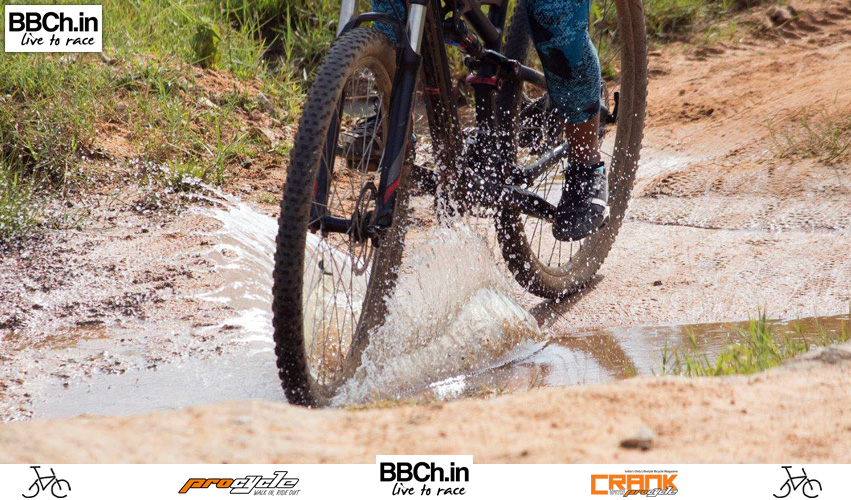
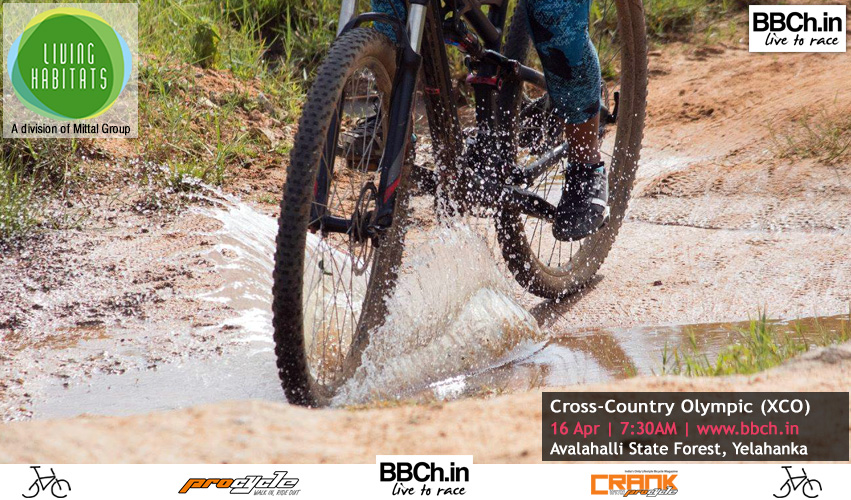
new sponsors added
new sponsors added  and page updated

Changed region(s): [[0.611, 0.78, 1.0, 0.93], [0.0, 0.0, 0.1833, 0.3], [0.8555, 0.0, 1.0, 0.12]]

diff --git a/Sponsors.htm b/Sponsors.htm
@@ -163,20 +163,34 @@
                 <div align="center" style="width: 900px">
                     <div style="background-color: #ffffff">                        
                         <br /><br />
+                        
+                        <a href="#" target="_blank">
+                            <div>
+                            <h1>Powered By</h1>
+                            <img alt="A division of Mittal Group" src="Images/SponsorLivingHabitats.jpg" style="border: 0; height: 400px" />
+                            </div>
+                        </a>
+                        
+                        <br /><br /><hr /><br /><br />
+                        
                         <a href="http://crankwithprocycle.in/" target="_blank">
                             <div>
                             <h1>MAGAZINE PARTNER</h1>
                             <img alt="Crank" src="Images/SponsorCrank.jpg" style="border: 0" />
                             </div>
                         </a>
-                        <br /><br />
+                        
+                        <br /><br /><hr /><br /><br />
+                        
                         <a href="http://www.procycle.in/" target="_blank">
                             <div>
                             <h1>BICYCLE STORE PARTNER</h1>
                             <img alt="ProCycle" src="Images/SponsorProCycle.jpg" style="border: 0" />
                             </div>
                         </a>
-                        <br /><br />
+                        
+                        <br /><br /><hr /><br /><br />
+                        
                         <!--<br />
                         <a href="http://www.thesufferfest.com/" target="_blank">
                             <div id="sf"></div>
@@ -192,6 +206,8 @@
                             <img alt="Adidas" src="Images/SponsorAdidas.jpg" style="border: 0" />
                             </div>
                         </a>
+                        
+                        
                         <a href="http://iwearlumos.com/India/" target="_blank">
                             <div>
                             <h1>ACCESSORIES PARTNER</h1>
@@ -258,38 +274,58 @@
                     <div align="center" style="width: 900px">
                         <div style="background-color: #ffffff">
                             <br />
+                            
                             <h1>MEDICAL PARTNER</h1>
                             <a href="http://sbshospital.com/who-we-are/our-story/" target="_blank">
                                 <div id="sb"></div>
                             </a>
                             <br /><hr /><br />
+                            
+                            
                             <h1>PHYSIO PARTNER</h1>
                             <a href="http://www.spectrumphysio.info/" target="_blank">
                             <div id="SP"></div>
                             <br /><hr /><br />
+
+
                             <a href="http://www.yogabars.in/" target="_blank">
                             <div>
                             <h1>NUTRITION PARTNER</h1>
                             <img alt="Yoga Bar" src="Images/SponsorYogaBar.jpg" style="border: 0; height: 150px" />
                             </div>
                             <br /><hr /><br />
+
+                            
                             <a href="http://www.greatmalnadchallenge.in/" target="_blank">
                             <div>
                             <h1>MTB CHAMPIONSHIP PARTNER</h1>
-                            <img alt="Yoga Bar" src="Images/PartnerGMC2017.jpg" style="border: 0" />
+                            <img alt="Great Malnad Challange" src="Images/PartnerGMC2017.jpg" style="border: 0" />
                             </div>
                             <br /><hr /><br />
+                            
+                            
                             <a href="http://veloscope.in/" target="_blank">
                             <div>
                             <h1>PHOTOGRAPHY PARTNER</h1>
                             <img alt="Velosope" src="Images/SponsorVeloscope.jpg" style="border: 0; height: 130px" />
                             </div>
                             <br /><hr /><br />
+                            
+                            
                             <h1>ROAD CHAMPIONSHIP PARTNER</h1>
                             <a href="http://www.tourofnilgiris.com/" target="_blank">
                                 <div id="TFN"></div>
                             </a>
                             <br /><hr /><br />
+                            
+                            
+                            <a href="#" target="_blank">
+                            <div>
+                            <h1>THE BOUTIQUE CAFE</h1>
+                            <img alt="My Cousin's Place" src="Images/SponsorMyCousinsPlace.jpg" style="border: 0; height: 150px" />
+                            </div>
+                            <br /><hr /><br />
+
                         </a>
                         <br /><br />
                         </a>

diff --git a/Gallery.htm b/Gallery.htm
@@ -172,17 +172,27 @@
                                 </tr>
                                 <tr>
                                     <td>
+
+                                       <iframe src="https://www.facebook.com/plugins/post.php?href=https%3A%2F%2Fwww.facebook.com%2Fmedia%2Fset%2F%3Fset%3Da.10154950416580767.1073741860.112819480766%26type%3D3&width=500" 
+                                       width="700" height="626" style="border:none;overflow:hidden" scrolling="no" frameborder="0" allowTransparency="true"></iframe>
+                                       
+                                       <br /><br />
                                                                         
                                         <script src="//connect.facebook.net/en_US/sdk.js#xfbml=1&amp;version=v2.5" 
                                           async></script>  
                                       <div class="fb-post" 
                                           data-href="https://www.facebook.com/architectsuman/posts/10212032212657831"
-                                          data-width="500"></div>
+                                          data-width="700"></div>
 
                                           <br /><br />
                                         
-                                        <iframe src="//embedsocial.com/facebook_album/album_photos/1813710865618746" width="900" height="700" 
+                                        <iframe src="//embedsocial.com/facebook_album/album_photos/1813710865618746" width="700" height="1150" 
                                         frameborder="0" scrolling="no" marginheight="0" marginwidth="0"></iframe>
+
+                                        <br /><br />
+
+                                        <iframe src="https://www.facebook.com/plugins/post.php?href=https%3A%2F%2Fwww.facebook.com%2FBangaloreBicycleChampionships%2Fposts%2F10154943949790767&width=500" 
+                                        width="700" height="786" style="border:none;overflow:hidden" scrolling="no" frameborder="0" allowTransparency="true"></iframe>
                                          
                                     </td>
                                 </tr>

diff --git a/index.html b/index.html
@@ -386,9 +386,6 @@
                     
                     <span class="CaptionText">Race Fee : </span>Online -INR 500/- (NO Spot Registration)<br />
                     <br />
-                    <br /><br />
-                    <br />
-                    <br /><br />
                 </p>
             </div>
             <div class="one-third last">
@@ -543,6 +540,13 @@
             <h2>
                 Sponsors</h2>
             <div>
+            <a href="Sponsors.htm">
+                <img class="left" alt="Mittal" src="Images/SponsorLivingHabitats.jpg" style="border: 0; height: 240px" />
+            </a>
+            </div>
+            <div class="clear">
+            </div>
+            <div>
                 <a href="Sponsors.htm">
                     <img class="left" alt="Crank" src="Images/SponsorCrank.jpg" style="border: 0; height: 100px" />
                 </a>
@@ -609,6 +613,9 @@
                 </a>
                 <a href="Sponsors.htm">
                     <img class="left" alt="TFS" src="Images/SponsorImg004.jpg" style="border: 0; height: 100px" />
+                </a>
+                <a href="Sponsors.htm">
+                    <img class="left" alt="MCP" src="Images/SponsorSponsorMyCousinsPlace.jpg" style="border: 0; height: 100px" />
                 </a>
             </div>
             <div class="clear">

diff --git a/BBCh17Race03.htm b/BBCh17Race03.htm
@@ -210,10 +210,10 @@
                     |&nbsp; <a href="Volunteers.htm">Volunteer Signup</a><br />
                     </p>
                 </div>
-                <!--<div style="width: 50%; float: left">
+                <div style="width: 50%; float: left">
                     <span class="CaptionText2">Awesome Sponsors & Partners</span>
-                    <img alt="Sponsor Banner" src="Images/BBCh16_Race06_SP_Road_Banner.gif" style="box-shadow: 0px 0px 10px #888888" />
-                </div>-->
+                    <img alt="Sponsor Banner" src="Images/BBCh17_Sponsors_Banner.gif" style="box-shadow: 0px 0px 10px #888888" />
+                </div>
                  <div class="clear">
                 </div>
                     <span style="letter-spacing: 1px"><br />

diff --git a/ParticipantsList.htm b/ParticipantsList.htm
@@ -169,7 +169,7 @@
                         width="800px" height="500px"></iframe>-->
 
                         <iframe src="https://docs.google.com/spreadsheets/d/1DqjYpYAzroA63CPn48ipuvT_tbbeBQmL1xfDcDTuqqc/pubhtml?widget=true&amp;headers=false" 
-                        width="800px" height="500px"></iframe>
+                        width="900px" height="500px"></iframe>
                     </div>
                     <div>
                         <p><b>Note:</b>
